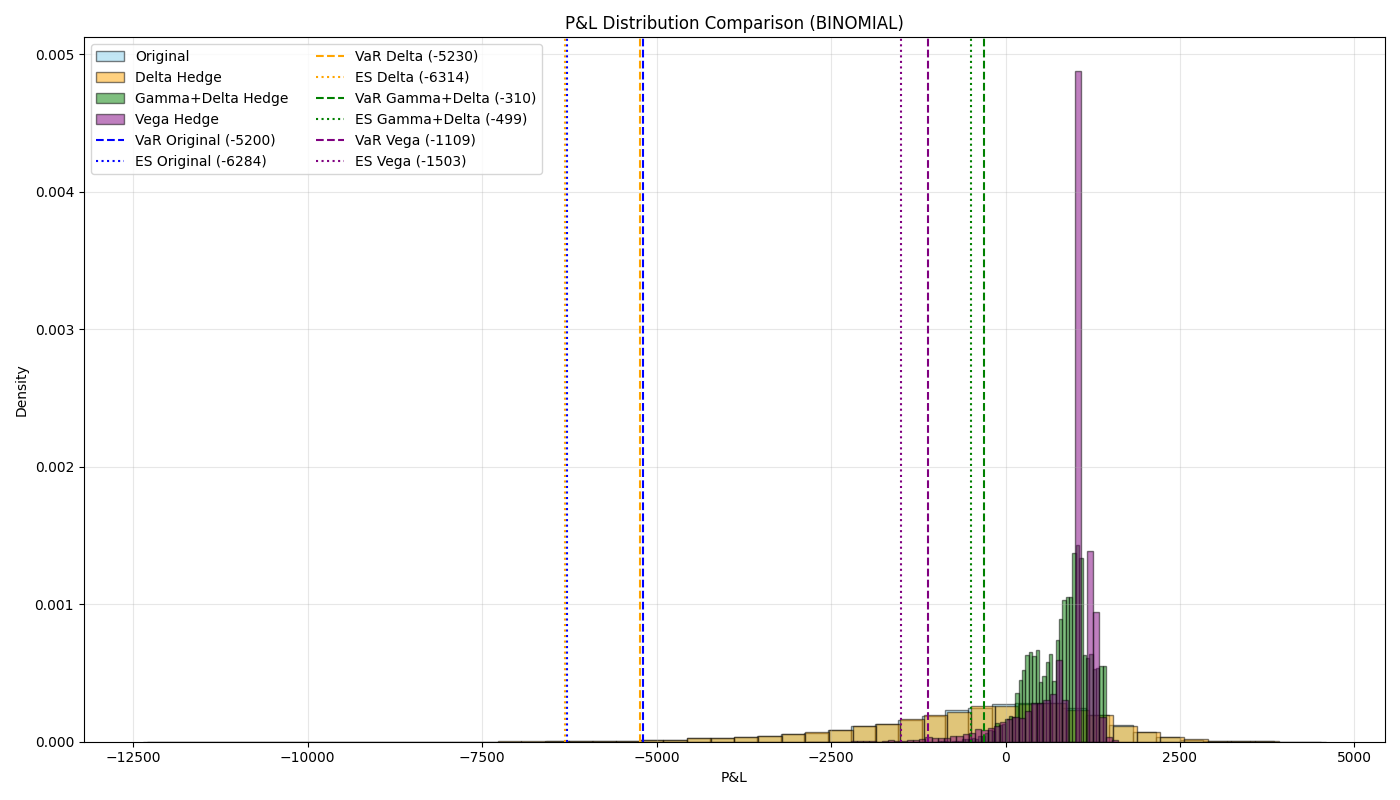
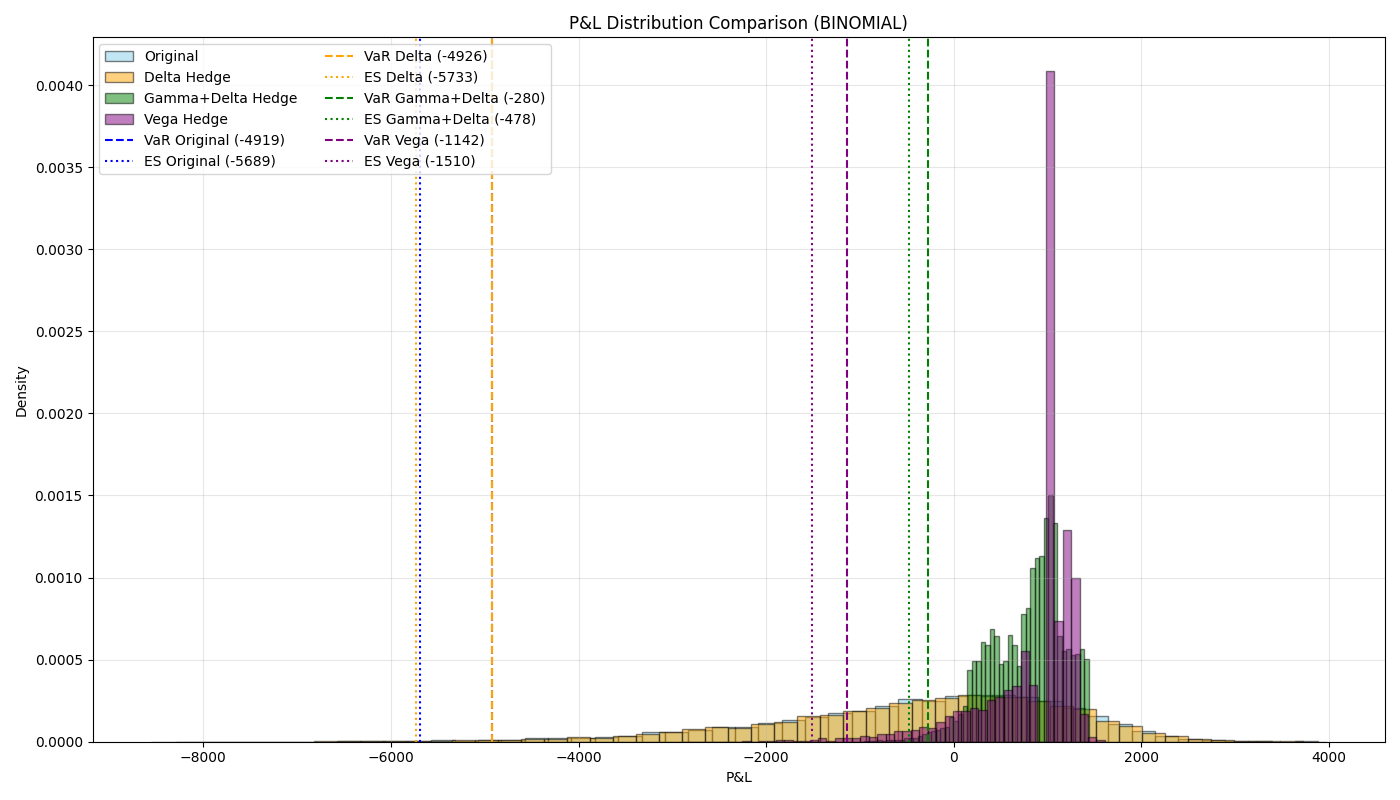
test

diff --git a/option_pricing/binomial_model/binomial_portfolio_analysis.py b/option_pricing/binomial_model/binomial_portfolio_analysis.py
@@ -1,9 +1,14 @@
+import sys
+import os
+path_to_add = os.path.dirname(os.path.dirname(os.path.dirname(os.path.abspath(__file__))))
+print("Path added to sys.path:", path_to_add)
+sys.path.append(path_to_add)
+print("Current working directory:", os.getcwd())
 import numpy as np
 from scipy.optimize import brentq
 from scipy.stats import norm
 import matplotlib.pyplot as plt
 import copy
-import os
 import pandas as pd
 
 from option_pricing.binomial_model.american_options.american_binomial import binomial_american_option_price, binomial_greeks_american_option, get_historical_volatility
@@ -294,12 +299,12 @@ def run_sensitivity_analysis_binomial(portfolio, N, vis_dir):
 if __name__ == "__main__":
     # --- Definición de la cartera ---
     portfolio = [
-        {'type': 'call', 'style': 'european', 'S': 5802.82, 'K': 5800, 'T': 0.0849, 'r': 0.0421, 'qty': -10, 'market_price': 152.80},
-        {'type': 'put',  'style': 'european', 'S': 5802.82, 'K': 5800, 'T': 0.0849, 'r': 0.0421, 'qty': -5,  'market_price': 147.20},
-        {'type': 'call', 'style': 'european', 'S': 5802.82, 'K': 5900, 'T': 0.0849, 'r': 0.0421, 'qty': 5,   'market_price': 80.00},
+        {'type': 'put', 'style': 'european', 'S': 5922.60, 'K': 6105, 'T': 0.0849, 'r': 0.0421, 'qty': -5, 'market_price': 630.04},
+        {'type': 'put',  'style': 'american', 'S': 5922.60, 'K': 6105, 'T': 0.0849, 'r': 0.0421, 'qty': -5,  'market_price': 630.04},
+        #{'type': 'call', 'style': 'european', 'S': 5802.82, 'K': 5900, 'T': 0.0849, 'r': 0.0421, 'qty': 5,   'market_price': 80.00},
     ]
     horizonte_dias = 10 / 252  # días de trading
-    N_steps = 100
+    N_steps = 1000
 
     print("\n" + "="*60)
     print("OPTION PORTFOLIO SUMMARY USING BINOMIAL")
